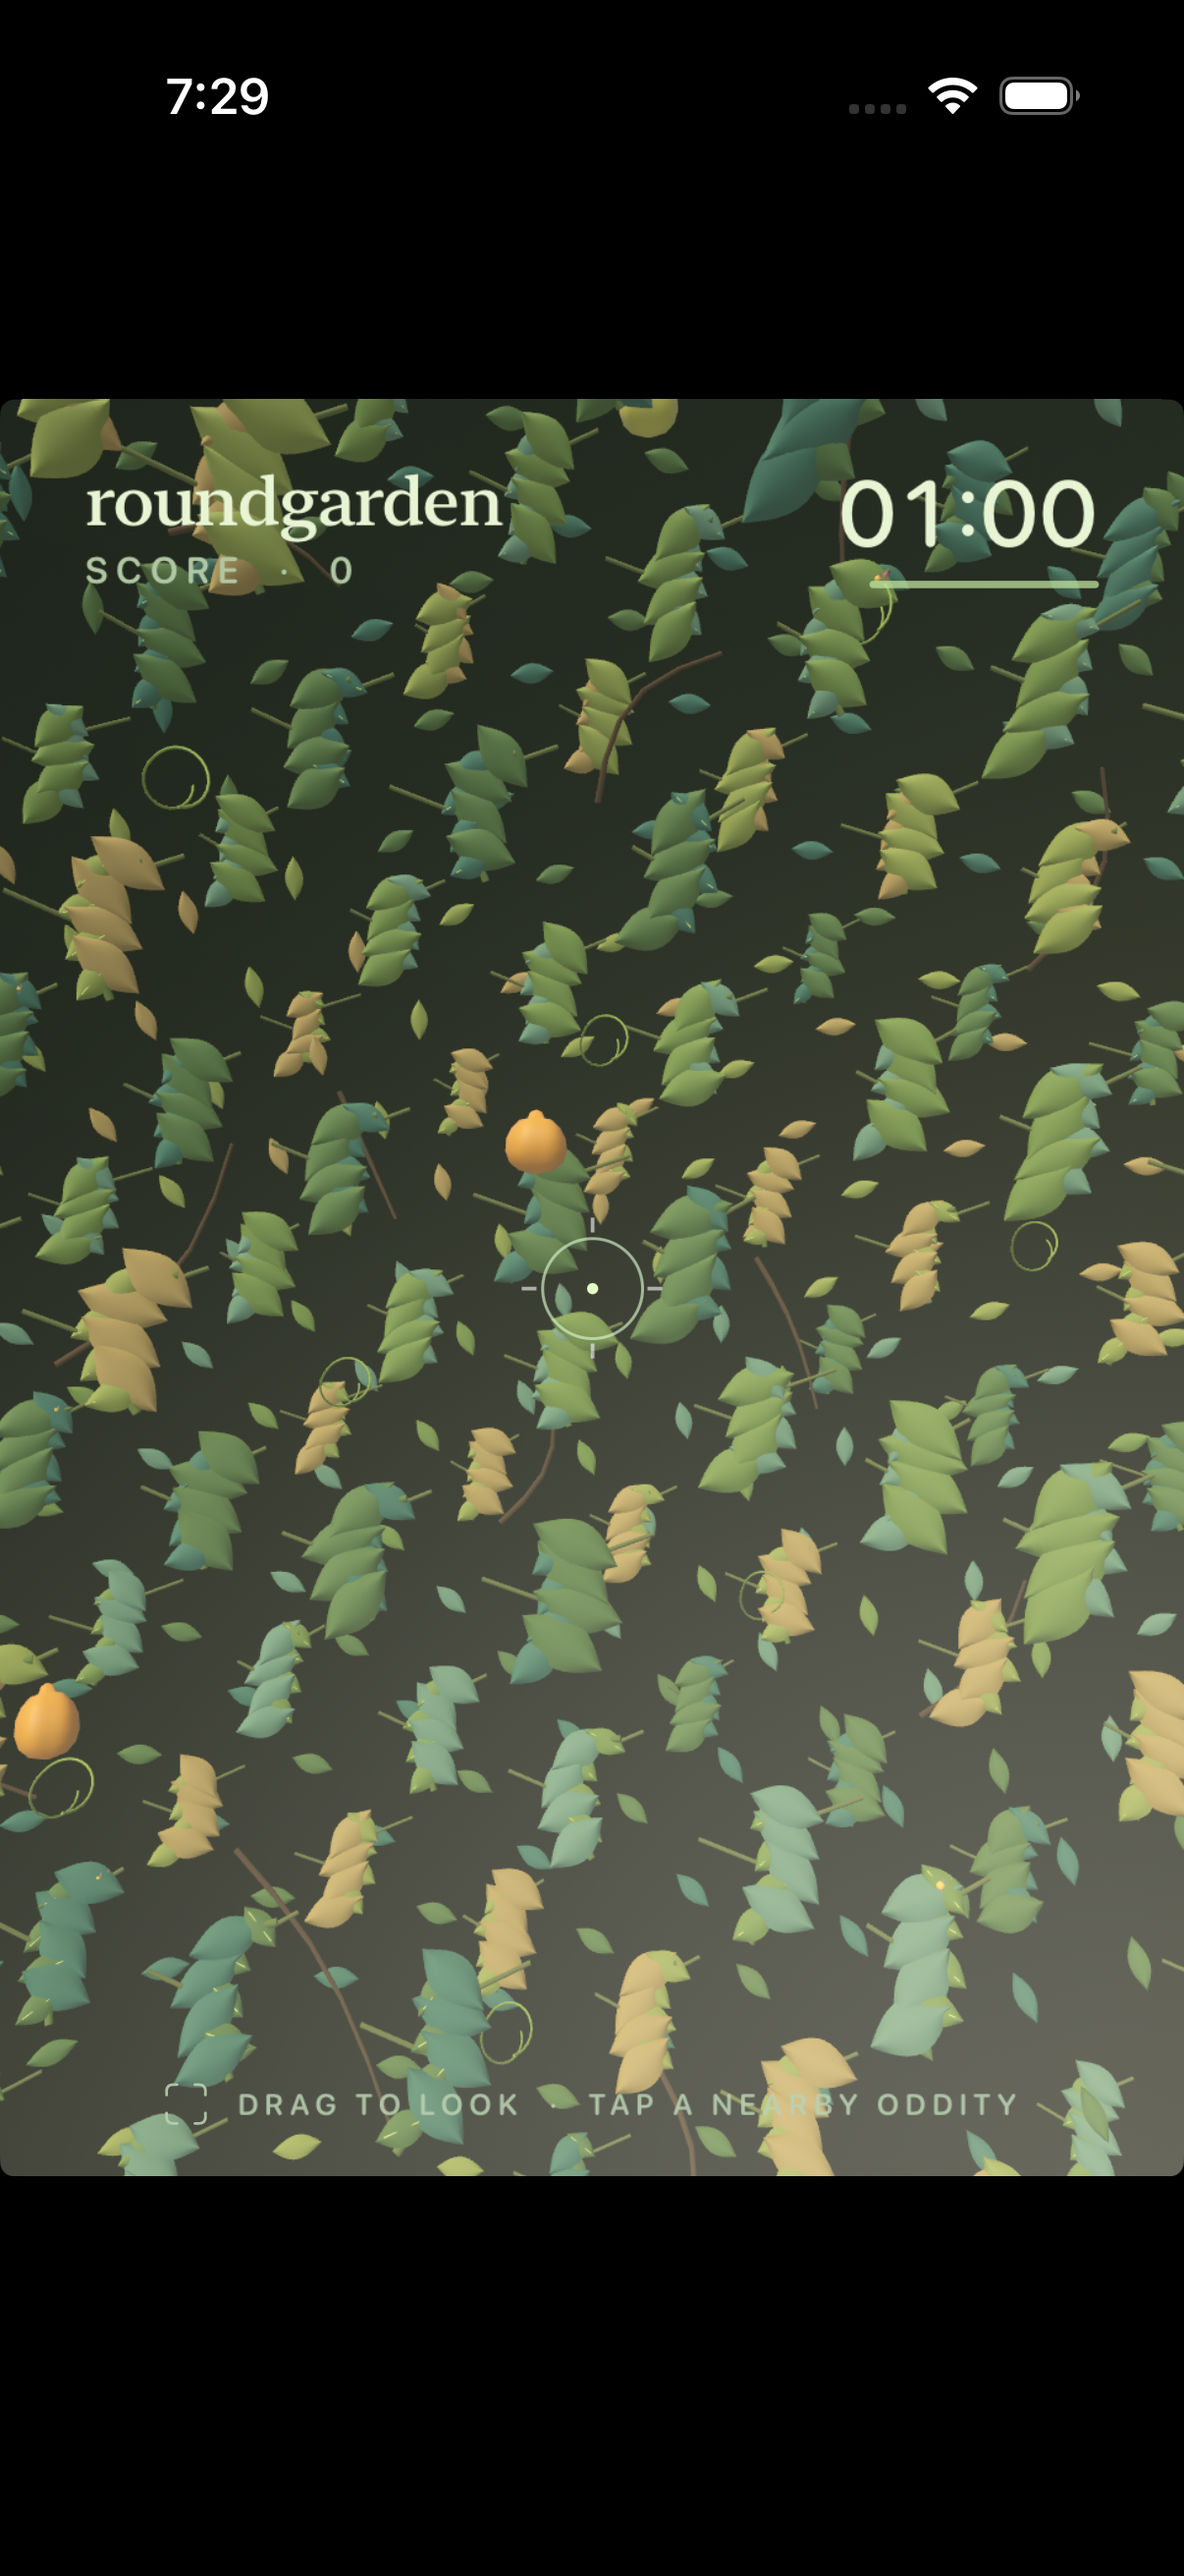
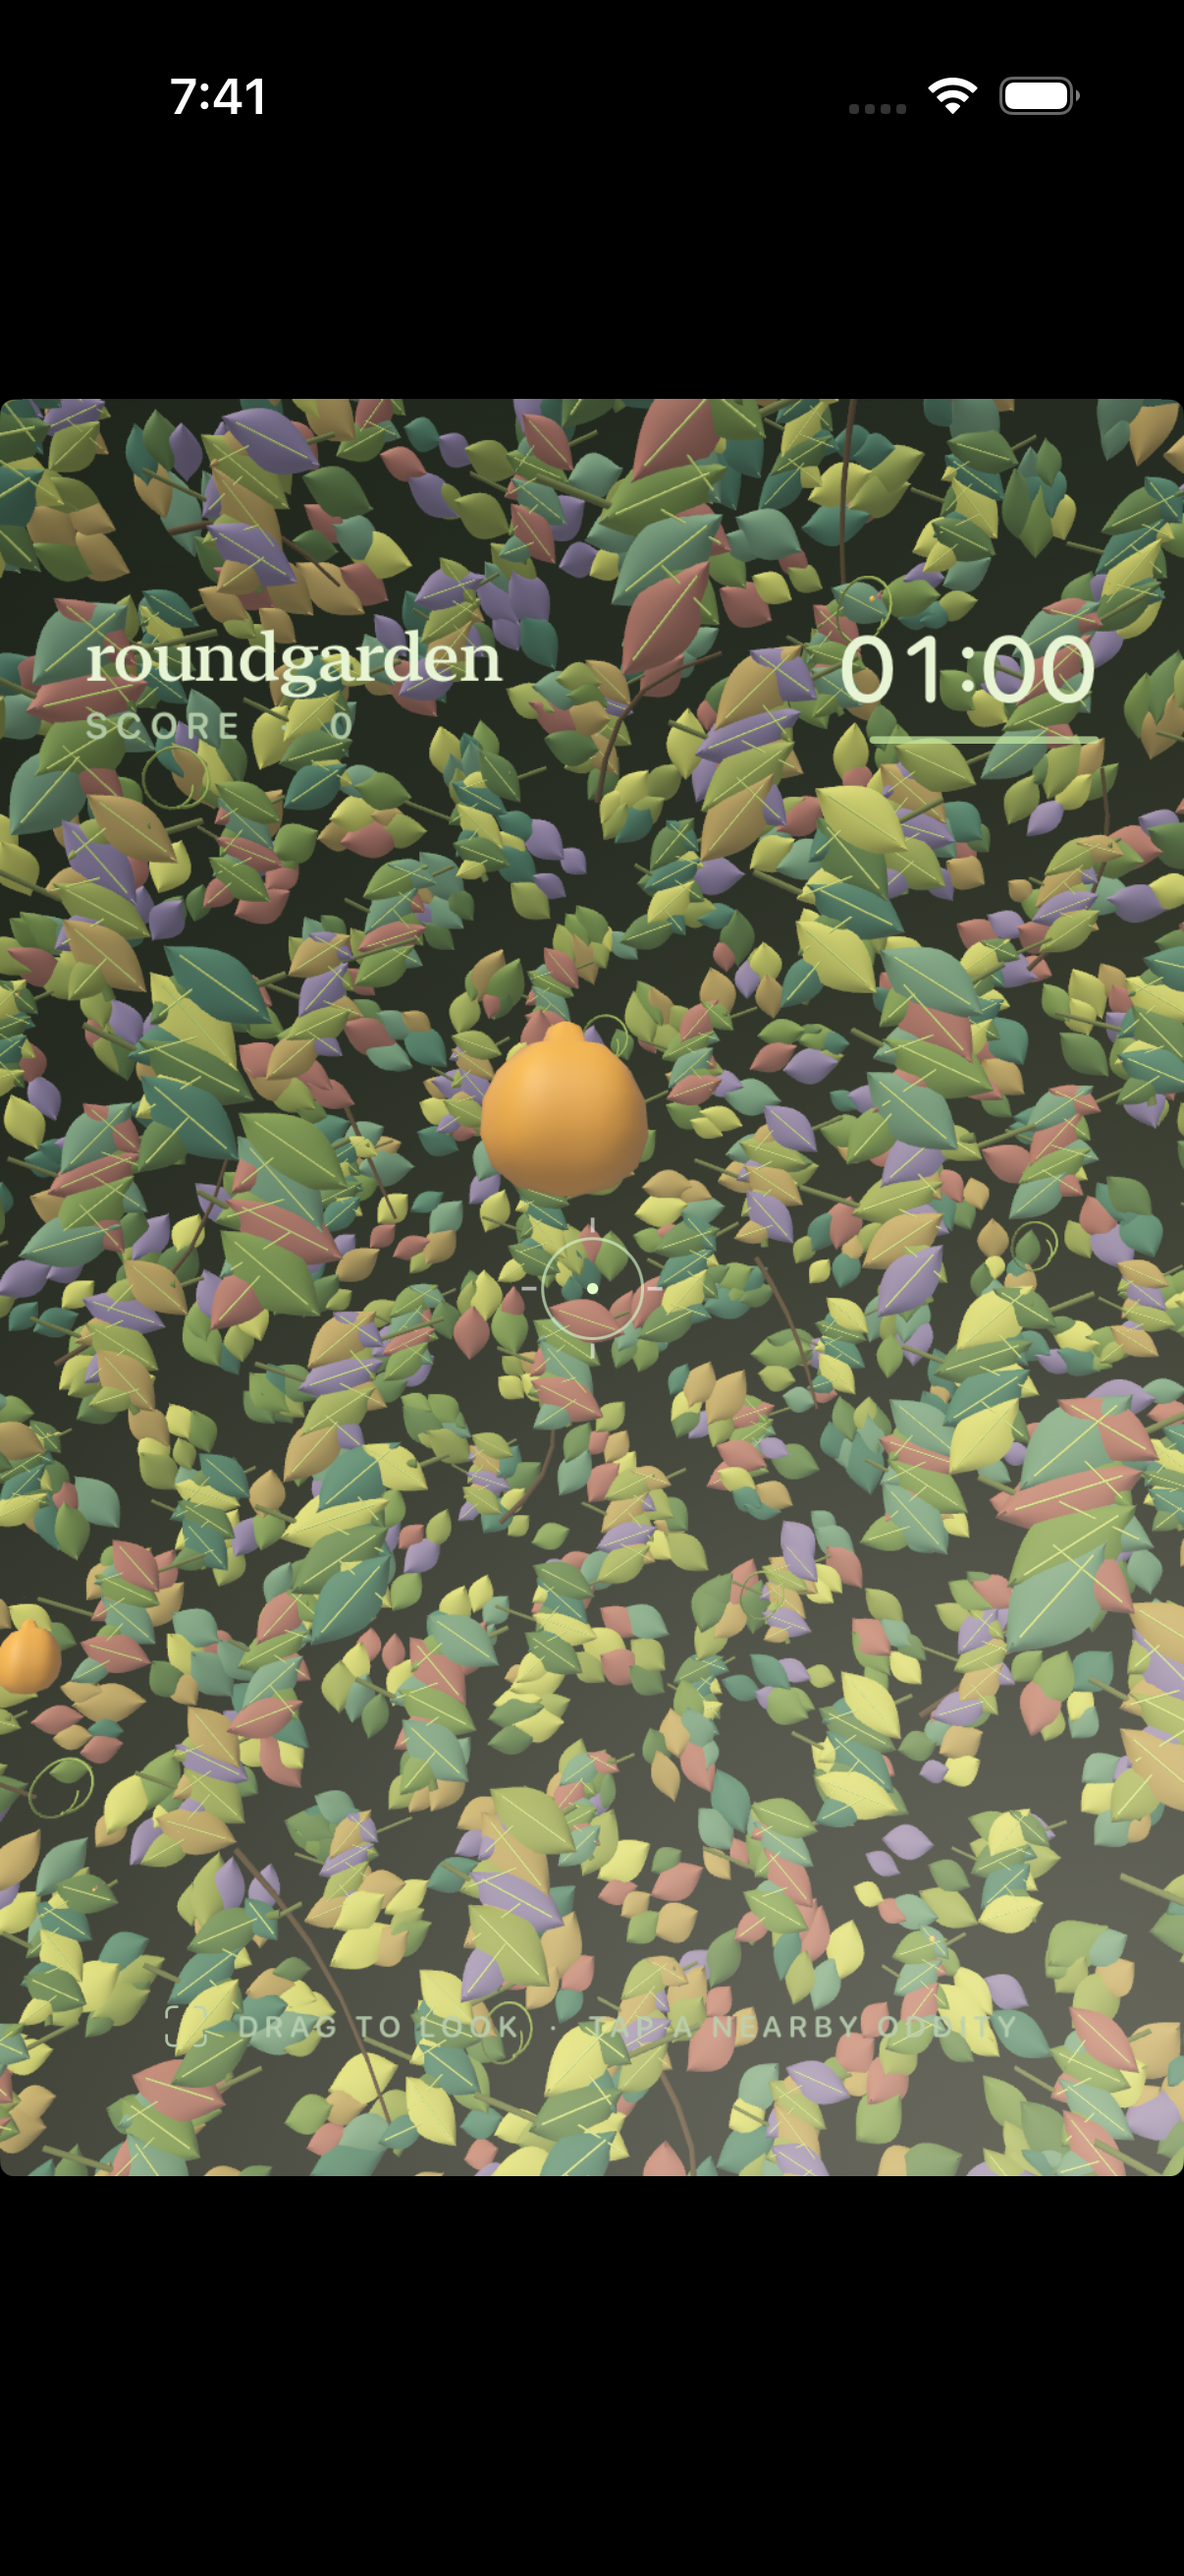
Improve native garden foliage depth

diff --git a/spikes/RealityKitSpike/RealityKitSpike/SpikeView.swift b/spikes/RealityKitSpike/RealityKitSpike/SpikeView.swift
@@ -15,8 +15,7 @@ struct SpikeView: View {
     @State private var score = 0
     @State private var lastDragTranslation = CGSize.zero
     var body: some View {
-        GeometryReader { geometry in
-            ZStack {
+        ZStack {
                 TimelineView(.animation(minimumInterval: 1.0 / 30.0, paused: false)) { timeline in
                     RealityView { content in
                         content.add(makeGarden())
@@ -34,7 +33,7 @@ struct SpikeView: View {
                             let phase = elapsed * 0.18 + Float(index) * 1.57
                             let base: SIMD3<Float>
                             if index == 0 {
-                                base = [0.2, 0.1, -19]
+                                base = [0.2, 0.1, -13]
                             } else {
                                 let sample = Float(index - 1)
                                 let y = 1 - 2 * (sample + 0.5) / 11
@@ -46,8 +45,9 @@ struct SpikeView: View {
                             produce.look(at: .zero, from: produce.position, relativeTo: nil)
                         }
                     }
-                    .ignoresSafeArea()
                 }
+                .frame(maxWidth: .infinity, maxHeight: .infinity)
+                .ignoresSafeArea()
 
                 VStack {
                     HStack(alignment: .top) {
@@ -79,8 +79,8 @@ struct SpikeView: View {
                     .foregroundStyle(Color(red: 0.73, green: 0.82, blue: 0.70).opacity(0.88))
                 }
                 .padding(.horizontal, 23)
-                .padding(.top, max(16, geometry.safeAreaInsets.top + 10))
-                .padding(.bottom, max(13, geometry.safeAreaInsets.bottom + 8))
+                .padding(.top, 58)
+                .padding(.bottom, 34)
                 .allowsHitTesting(false)
 
                 ZStack {
@@ -93,9 +93,8 @@ struct SpikeView: View {
                 }
                 .allowsHitTesting(false)
             }
-            .frame(maxWidth: .infinity, maxHeight: .infinity)
-            .background(Color(red: 0.012, green: 0.032, blue: 0.031).ignoresSafeArea())
-        }
+        .frame(maxWidth: .infinity, maxHeight: .infinity)
+        .background(Color(red: 0.012, green: 0.032, blue: 0.031).ignoresSafeArea())
         .preferredColorScheme(.dark)
         .gesture(DragGesture(minimumDistance: 0)
             .onChanged { value in
@@ -143,6 +142,7 @@ struct SpikeView: View {
         let key = DirectionalLight()
         key.light.intensity = 1800
         key.light.color = .init(red: 1, green: 0.91, blue: 0.70, alpha: 1)
+        key.components.set(DirectionalLightComponent.Shadow())
         key.position = [-12, 19, 8]
         key.look(at: .zero, from: key.position, relativeTo: nil)
         root.addChild(key)
@@ -163,7 +163,7 @@ struct SpikeView: View {
 
         // Fibonacci-distributed growth fills the same spherical shell as the web scene.
         let leafMesh = makeLeafMesh()
-        let palette = (0..<6).map { index in
+        let palette = (0..<9).map { index in
             SimpleMaterial(color: leafColor(index), roughness: 0.74, isMetallic: false)
         }
         let canInstance: Bool
@@ -186,7 +186,9 @@ struct SpikeView: View {
             let y = 1 - (Float(i) + 0.5) * 2 / Float(plantCount)
             let r = sqrt(max(0, 1 - y * y))
             let normal = SIMD3<Float>(cos(u) * r, y, sin(u) * r)
-            let shellRadius = 29 + Float((i * 37) % 26)
+            let shellRadius: Float = i % 5 == 0
+                ? 20 + randomUnit(i * 17 + 4) * 9
+                : 31 + randomUnit(i * 17 + 5) * 21
             let clusterPosition = normal * shellRadius
             let clusterOrientation = simd_quatf(from: SIMD3<Float>(0, 0, 1), to: -normal)
             let bend = Float((i * 17) % 19) / 18 - 0.5
@@ -219,7 +221,7 @@ struct SpikeView: View {
                 veinInstances.append(Transform(
                     scale: [1, size * 0.66, 1],
                     rotation: worldRotation,
-                    translation: worldPosition + worldRotation.act(SIMD3<Float>(0, 0, 0.12))
+                    translation: worldPosition + worldRotation.act(SIMD3<Float>(0, 0, size * 0.13))
                 ))
             }
             for branchIndex in 0..<2 {
@@ -308,20 +310,43 @@ struct SpikeView: View {
                 ))
             }
         }
-        let coverLeafCount = canInstance ? 2200 : 300
-        for i in 0..<coverLeafCount {
-            let y = 1 - 2 * (Float(i) + 0.5) / Float(coverLeafCount)
+        // Mirror the web renderer's seven-leaf clusters on the inner glass.
+        // Keep the lower-system fallback smaller because it uses individual entities.
+        let coverClusters = canInstance ? 1800 : 300
+        for i in 0..<coverClusters {
+            let y = 1 - 2 * (Float(i) + 0.5) / Float(coverClusters)
             let angle = Float(i) * 2.399963
             let ring = sqrt(max(0, 1 - y * y))
             let normal = SIMD3<Float>(cos(angle) * ring, y, sin(angle) * ring)
-            let orientation = simd_quatf(from: SIMD3<Float>(0, 0, 1), to: -normal)
-            let spin = simd_quatf(angle: Float(i % 11) * 0.21, axis: [0, 0, 1])
-            let colorIndex = (i * 13 + i / 7) % palette.count
-            leafInstances[colorIndex].append(Transform(
-                scale: [1.5, 2.1, 1.35],
-                rotation: orientation * spin,
-                translation: normal * 53.2
+            var tangent = simd_cross(normal, SIMD3<Float>(
+                randomUnit(i * 3 + 11) * 2 - 1,
+                randomUnit(i * 3 + 12) * 2 - 1,
+                randomUnit(i * 3 + 13) * 2 - 1
             ))
+            if simd_length_squared(tangent) < 0.04 { tangent = simd_cross(normal, SIMD3<Float>(0, 1, 0)) }
+            tangent = simd_normalize(tangent)
+            let inward = -normal
+            let sideways = simd_normalize(simd_cross(tangent, inward))
+            let frame = simd_quatf(simd_float3x3(columns: (sideways, tangent, inward)))
+            let origin = normal * (48.5 + randomUnit(i * 7 + 31) * 4.5)
+            for leaf in 0..<7 {
+                let seed = i * 7 + leaf
+                let spreadAngle = Float(leaf) / 7 * 2 * .pi + randomUnit(seed * 5 + 2) * 0.48
+                let spread = 0.35 + randomUnit(seed * 5 + 3) * 1.35
+                let translation = origin
+                    + tangent * (cos(spreadAngle) * spread)
+                    + sideways * (sin(spreadAngle) * spread)
+                let localRotation = simd_quatf(angle: (randomUnit(seed * 5 + 4) - 0.5) * 0.55, axis: [1, 0, 0])
+                    * simd_quatf(angle: (randomUnit(seed * 5 + 5) - 0.5) * 0.55, axis: [0, 1, 0])
+                    * simd_quatf(angle: (randomUnit(seed * 5 + 6) - 0.5) * 0.5, axis: [0, 0, 1])
+                let size = 1.8 + randomUnit(seed * 5 + 7) * 1.5
+                let colorIndex = Int(randomUnit(seed * 5 + 8) * Float(palette.count))
+                leafInstances[colorIndex].append(Transform(
+                    scale: [size, size * (0.78 + randomUnit(seed * 5 + 9) * 0.3), size],
+                    rotation: frame * localRotation,
+                    translation: translation
+                ))
+            }
         }
         for index in palette.indices {
             var material = palette[index]
@@ -392,7 +417,7 @@ struct SpikeView: View {
         for index in 0..<12 {
             let fruit = Entity()
             fruit.name = "oddity-\(index)"
-            let produceScale = 0.82 + Float(index % 4) * 0.10
+            let produceScale = index == 0 ? 1.55 : 0.82 + Float(index % 4) * 0.10
             let core = ModelEntity(mesh: fruitMesh, materials: [SimpleMaterial(color: fruitColors[index % fruitColors.count], roughness: 0.55, isMetallic: false)])
             core.scale = [produceScale, produceScale * (1.02 + Float(index % 3) * 0.09), produceScale]
             core.position.y = 0.9
@@ -412,6 +437,7 @@ struct SpikeView: View {
         var indices: [UInt32] = []
         let rows = 12
         let columns = 8
+        var normals: [SIMD3<Float>] = []
         for row in 0...rows {
             let v = Float(row) / Float(rows)
             let halfWidth = sin(.pi * v) * 0.24
@@ -419,6 +445,9 @@ struct SpikeView: View {
                 let u = Float(column) / Float(columns) * 2 - 1
                 let cup = (1 - u * u) * 0.07
                 positions.append([u * halfWidth, (v - 0.5) * 0.82, cup + sin(v * .pi) * 0.035])
+                let acrossTangent = SIMD3<Float>(sin(.pi * v) * 0.24, 0, -0.14 * u)
+                let lengthTangent = SIMD3<Float>(u * 0.24 * .pi * cos(.pi * v), 0.82, 0.035 * .pi * cos(.pi * v))
+                normals.append(simd_normalize(simd_cross(acrossTangent, lengthTangent)))
             }
         }
         for row in 0..<rows {
@@ -430,6 +459,7 @@ struct SpikeView: View {
         }
         var descriptor = MeshDescriptor()
         descriptor.positions = MeshBuffer(positions)
+        descriptor.normals = MeshBuffer(normals)
         descriptor.primitives = .triangles(indices)
         return (try? MeshResource.generate(from: [descriptor])) ?? .generateSphere(radius: 0.2)
     }
@@ -545,10 +575,16 @@ struct SpikeView: View {
             PlatformColor(red: 0.24, green: 0.47, blue: 0.39, alpha: 1),
             PlatformColor(red: 0.41, green: 0.58, blue: 0.47, alpha: 1),
             PlatformColor(red: 0.69, green: 0.60, blue: 0.35, alpha: 1),
-            PlatformColor(red: 0.72, green: 0.43, blue: 0.42, alpha: 1),
-            PlatformColor(red: 0.53, green: 0.45, blue: 0.67, alpha: 1)
+            PlatformColor(red: 0.78, green: 0.80, blue: 0.40, alpha: 1),
+            PlatformColor(red: 0.66, green: 0.43, blue: 0.39, alpha: 1),
+            PlatformColor(red: 0.53, green: 0.48, blue: 0.64, alpha: 1)
         ]
         return palette[seed % palette.count]
+    }
+
+    private func randomUnit(_ seed: Int) -> Float {
+        let value = sin(Float(seed) * 12.9898) * 43_758.547
+        return value - floor(value)
     }
 
     private func addGreenhouseRibs(to root: Entity) {

diff --git a/docs/decisions/0002-realitykit-spike.md b/docs/decisions/0002-realitykit-spike.md
@@ -12,15 +12,16 @@ Can one SwiftUI + RealityKit scene compile and run on both proposed native platf
 
 `spikes/RealityKitSpike` contains one small Xcode project with iOS and macOS targets sharing the same Swift source. The scene has an inward-facing sphere, radially distributed primitive foliage, directional and point lights, a center target pod, a perspective camera near the sphere center, drag-to-look, and a temporary tap/click counter.
 
-The current prototype animates multiple produce entities and uses curved leaf meshes, radial stems, veins, flowers, vines, a gradient dome, segmented greenhouse ribs, and instancing on iOS 26/macOS 26 and newer. These generated forms probe renderer behavior; they are not proposed production art. The iPhone capture still looks substantially different from the web game: its leaves read as repeated small silhouettes, the background lacks the web scene's depth, and the greenhouse is difficult to perceive.
+The current prototype animates multiple produce entities and uses curved leaf meshes with explicit normals, a clustered inner-glass canopy, radial stems, veins, flowers, vines, a gradient dome, segmented greenhouse ribs, a nine-color foliage palette, directional shadows, and instancing on iOS 26/macOS 26 and newer. The inner canopy now follows the web renderer's seven-leaf cluster layout and distribution. These generated forms probe renderer behavior; they are not proposed production art. The iPhone capture has more color, surface definition, and depth than the first port, but still looks different from the web garden and retains a clipped-looking composition.
 
 ## Evidence so far
 
 - `xcodebuild` for `RealityKitSpike_macOS` with destination `generic/platform=macOS` — passed locally on Xcode 27.1, with deployment target macOS 15.
 - `xcodebuild` for `RealityKitSpike_iOS` with an iPhone 17 Pro simulator destination — passed locally on Xcode 27.1, with deployment target iOS 18.
-- Installed and relaunched on the iPhone 17 Pro simulator running iOS 26.5; the latest capture is `screenshots/iphone-17-pro.png`. It confirms that the richer procedural scene renders, but it does not pass visual parity.
-- Added `.github/workflows/native-spike.yml` to build both targets on macOS GitHub runners when the spike changes. CI has not run for this update yet.
-- The capture shows radial foliage and animated produce. The canopy still reads as repeated silhouettes; the gradient dome and greenhouse ribs do not establish the web look, production quality, or useful depth cues.
+- Installed and relaunched on the iPhone 17 Pro simulator running iOS 26.5; the latest capture is `screenshots/iphone-17-pro.png`.
+- Side-by-side review with the web app informed a seven-leaf canopy cluster layout, explicit leaf normals, nine-color foliage palette, raised midribs, directional shadows, and a larger near-field produce pod.
+- Native and web GitHub Actions builds passed for the previous spike update. CI for this follow-up is pending.
+- The capture has more layered color and a readable near-field pod; visual parity and edge-to-edge composition still need work.
 
 ## Decision
 
@@ -28,7 +29,7 @@ This is not enough evidence to accept or reject RealityKit. Keep ADR 0001's reco
 
 ## Remaining validation
 
-1. Rework the native foliage and lighting against a side-by-side web capture; keep the spike open until the scene has recognizable depth and leaf silhouettes.
+1. Continue reworking the native foliage and composition against side-by-side web captures; keep the spike open until the scene has recognizable depth and botanical leaf silhouettes.
 2. Inspect the dome/ribs on iPad and Mac, then evaluate whether decoration can occlude valid targets.
 3. Test touch drag/tap and mouse/trackpad drag/click in interactive runs on iPhone, iPad, and Mac. Simulator input and one simulator screenshot do not establish hardware behavior.
 4. Record frame time and memory on representative devices with shadows enabled; compare against a focused Metal prototype if RealityKit misses the performance or visual bar.

diff --git a/spikes/RealityKitSpike/README.md b/spikes/RealityKitSpike/README.md
@@ -16,4 +16,4 @@ Open `RealityKitSpike.xcodeproj` in Xcode and select `RealityKitSpike_iOS` for a
 
 ## Limits and next checks
 
-The foliage now uses a curved leaf mesh, stems, veins, flowers, vines, a gradient dome, greenhouse ribs, and instancing on newer OS versions. The screenshot still does not match the web scene: the canopy reads as repeated small silhouettes, the backdrop is flat, and the greenhouse cue is hard to see. Treat this as a renderer capability check, not a visual-quality pass. Shadows, target selection, safe-area composition, and frame rate on representative iPhone/iPad and Mac hardware still need validation before adopting RealityKit or changing the proposed renderer decision.
+The latest pass adds a seven-leaf clustered canopy modeled on the web distribution, explicit leaf normals, a nine-color palette, raised midribs, directional shadows, and a larger near-field produce pod. The capture has more color and depth, but still does not match the web scene and the composition appears clipped. Treat this as an incremental renderer evaluation, not a visual-quality pass. Target selection, safe-area composition, and frame rate on representative iPhone/iPad and Mac hardware still need validation before adopting RealityKit or changing the proposed renderer decision.
